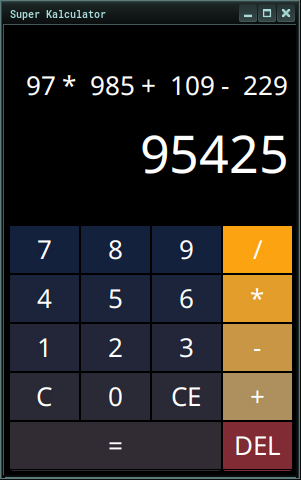
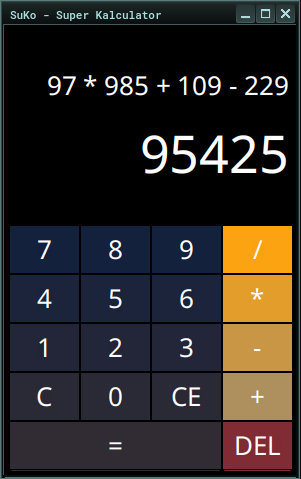
Screeshoot and some ajustment is done in Suko application.

diff --git a/Suko/src/main/java/mokira/suko/MainController.java b/Suko/src/main/java/mokira/suko/MainController.java
@@ -19,7 +19,7 @@ import mokira.suko.calc.interpreter.SemanticError;
  *
  * @author mokira3d48
  */
-public class PrimaryController {
+public class MainController {
   @FXML
   private Label outputLabel;
 
@@ -31,7 +31,7 @@ public class PrimaryController {
   private boolean hasError = false;
   private SukoCalculator calculator;
 
-  public PrimaryController() {
+  public MainController() {
     storedExpr = new ArrayList<>();
     calculator = new SukoCalculAdapter();
   }
@@ -96,7 +96,7 @@ public class PrimaryController {
 
   public void handleBinaryButtonClick(ActionEvent event) {
     Button button = (Button) event.getSource();
-    String binaryOperatorString = button.getText() + " ";
+    String binaryOperatorString = button.getText();
     enterOperation(binaryOperatorString);
   }
 
@@ -169,13 +169,13 @@ public class PrimaryController {
     if (keyCode.startsWith("NUMPAD"))
       enterNumber(event.getText());
     else if (keyCode.equals("ADD"))
-      enterOperation("+ ");
+      enterOperation("+");
     else if (keyCode.equals("SUBTRACT"))
-      enterOperation("- ");
+      enterOperation("-");
     else if (keyCode.equals("MULTIPLY"))
-      enterOperation("* ");
+      enterOperation("*");
     else if (keyCode.equals("DIVIDE"))
-      enterOperation("/ ");
+      enterOperation("/");
     else if (keyCode.equals("DELETE"))
       clearEntry();
     else if (keyCode.equals("BACK_SPACE"))

diff --git a/Suko/src/main/java/mokira/suko/App.java b/Suko/src/main/java/mokira/suko/App.java
@@ -15,12 +15,10 @@ import java.io.IOException;
  */
 public class App extends Application {
 
-  private static Scene scene;
-
   @Override
   public void start(Stage primaryStage) throws IOException {
-    Parent root = FXMLLoader.load(getClass().getResource("primary.fxml"));
-    primaryStage.setTitle("Super Kalculator");
+    Parent root = FXMLLoader.load(getClass().getResource("suko.fxml"));
+    primaryStage.setTitle("SuKo - Super Kalculator");
     primaryStage.setScene(new Scene(root, 292, 450));
 
     // String iconPath = getClass().getResource("../").getPath()
@@ -30,14 +28,14 @@ public class App extends Application {
     primaryStage.show();
   }
 
-  static void setRoot(String fxml) throws IOException {
-    scene.setRoot(loadFXML(fxml));
-  }
-
-  private static Parent loadFXML(String fxml) throws IOException {
-    FXMLLoader fxmlLoader = new FXMLLoader(App.class.getResource(fxml + ".fxml"));
-    return fxmlLoader.load();
-  }
+//  static void setRoot(String fxml) throws IOException {
+//    scene.setRoot(loadFXML(fxml));
+//  }
+//
+//  private static Parent loadFXML(String fxml) throws IOException {
+//    FXMLLoader fxmlLoader = new FXMLLoader(App.class.getResource(fxml + ".fxml"));
+//    return fxmlLoader.load();
+//  }
 
   public static void main(String[] args) {
     launch();
